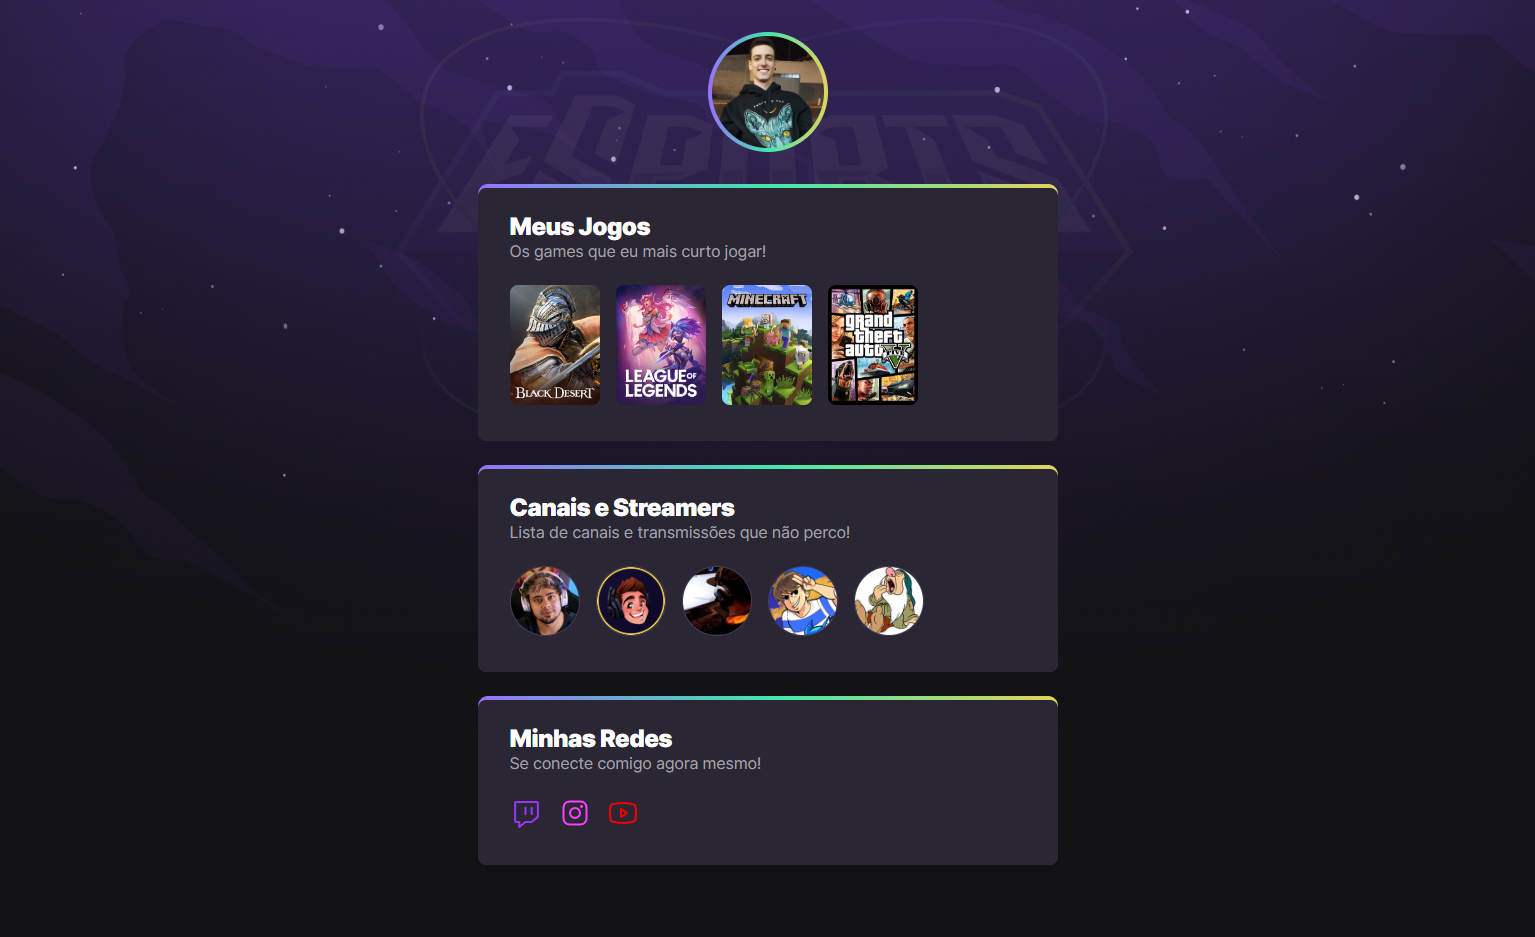
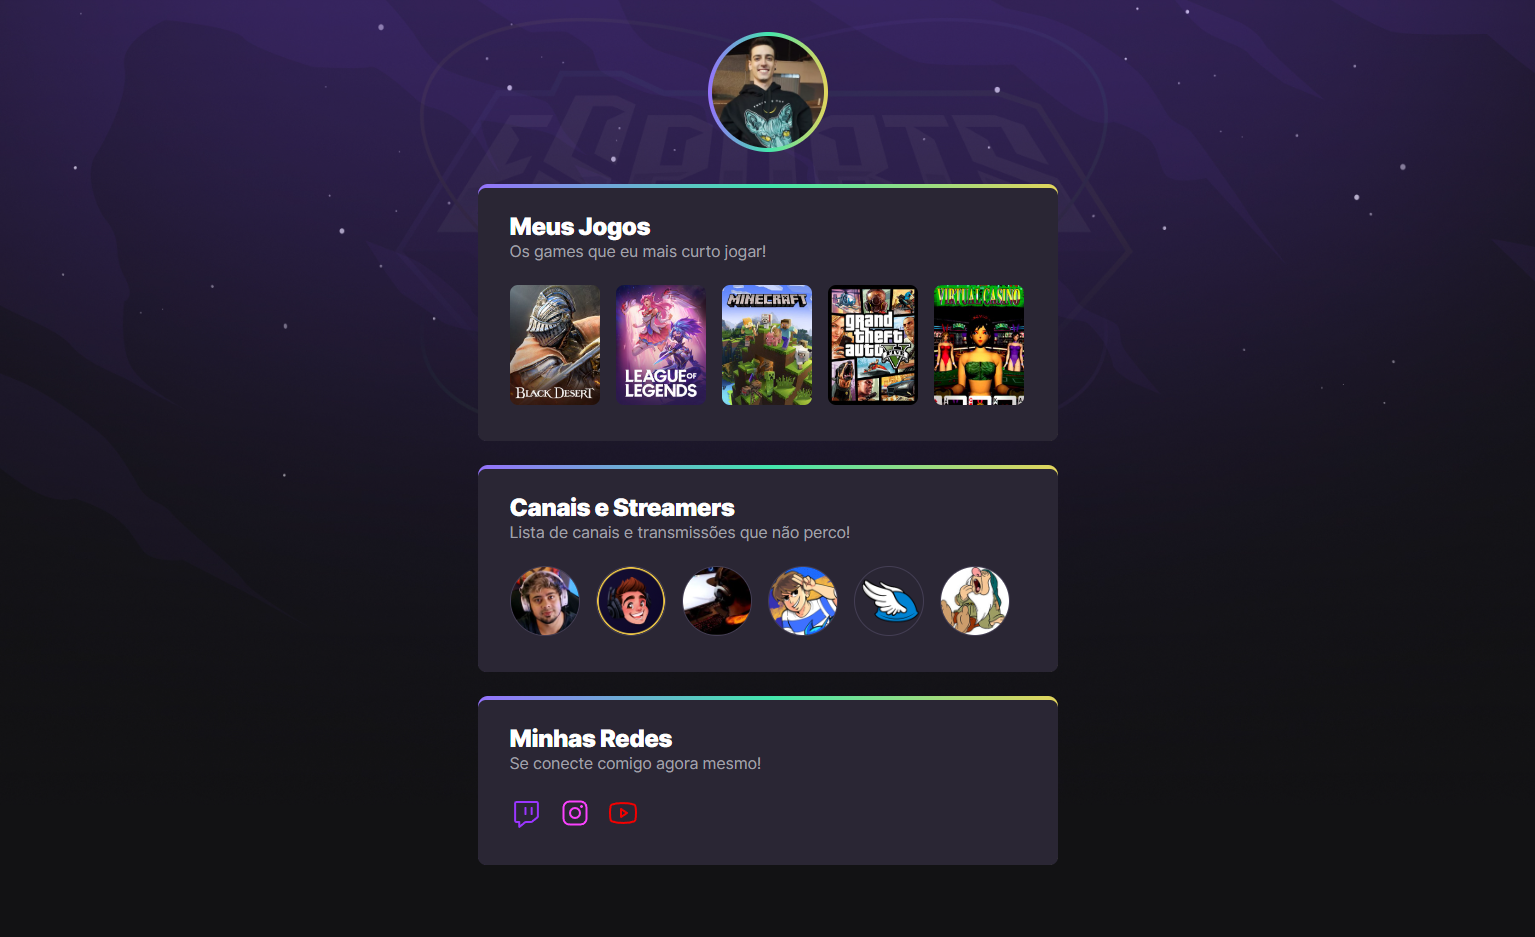
preview change

Changed region(s): [[0.5818, 0.2785, 0.6736, 0.4333], [0.5511, 0.588, 0.6736, 0.6809]]

diff --git a/index.html b/index.html
@@ -59,6 +59,13 @@
                                 alt="Imagem do jogo Grand Theft Auto V">
                         </a>
                     </li>
+
+                    <li>
+                        <a target="_blank" href="https://www.twitch.tv/directory/game/Virtual%20Casino">
+                            <img src="https://static-cdn.jtvnw.net/ttv-boxart/29452_IGDB-285x380.jpg"
+                                alt="Imagem do jogo Virtual Casino">
+                        </a>
+                    </li>
                 </ul>
             </div>
         </section>
@@ -94,6 +101,13 @@
                         <a target="_blank" href="https://www.twitch.tv/konnorlobo">
                             <img src="https://static-cdn.jtvnw.net/jtv_user_pictures/5db2699d-8007-4766-b158-08e8c90e531a-profile_image-150x150.png"
                                 alt="Imagem de KonnorLobo">
+                        </a>
+                    </li>
+
+                    <li>
+                        <a target="_blank" href="https://www.twitch.tv/gaules">
+                            <img src="https://static-cdn.jtvnw.net/jtv_user_pictures/f4b12683-57ff-4b57-926a-67512b43a7ff-profile_image-150x150.png"
+                                alt="Imagem de Gaules">
                         </a>
                     </li>
 
